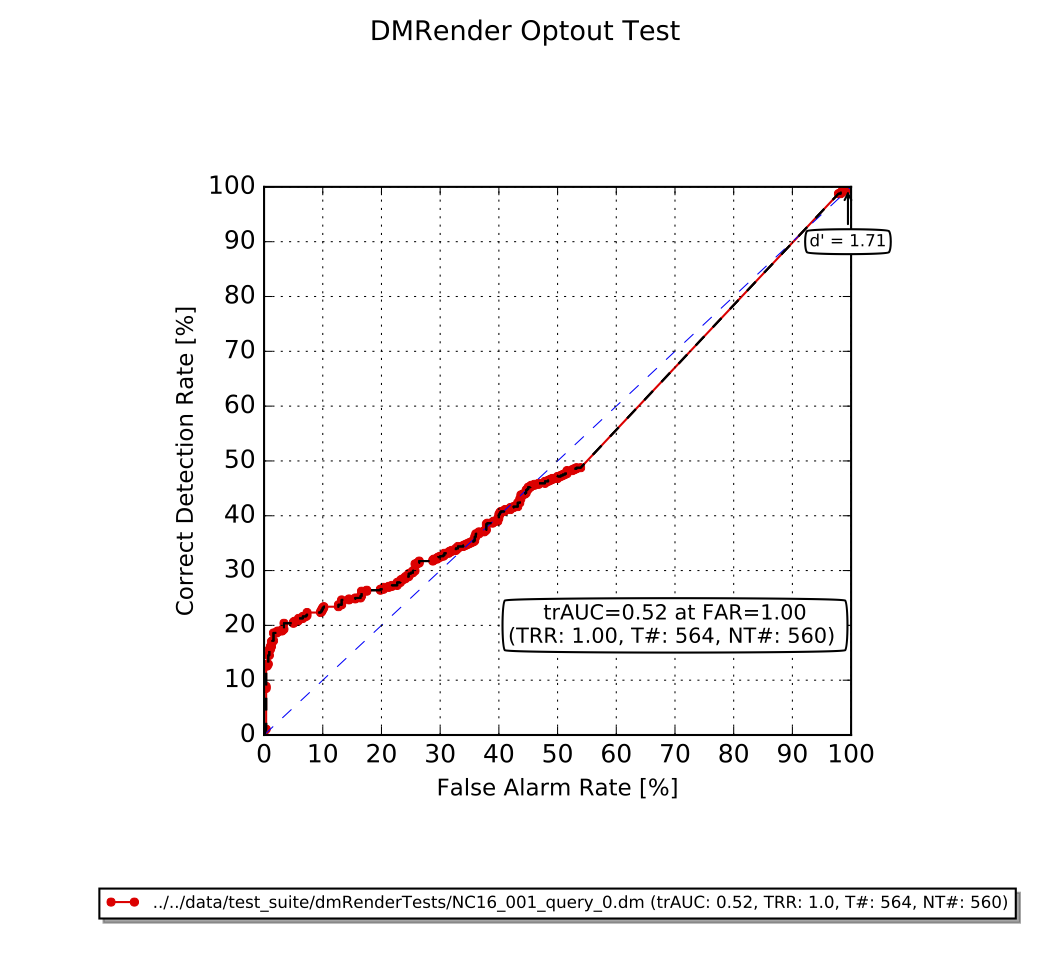
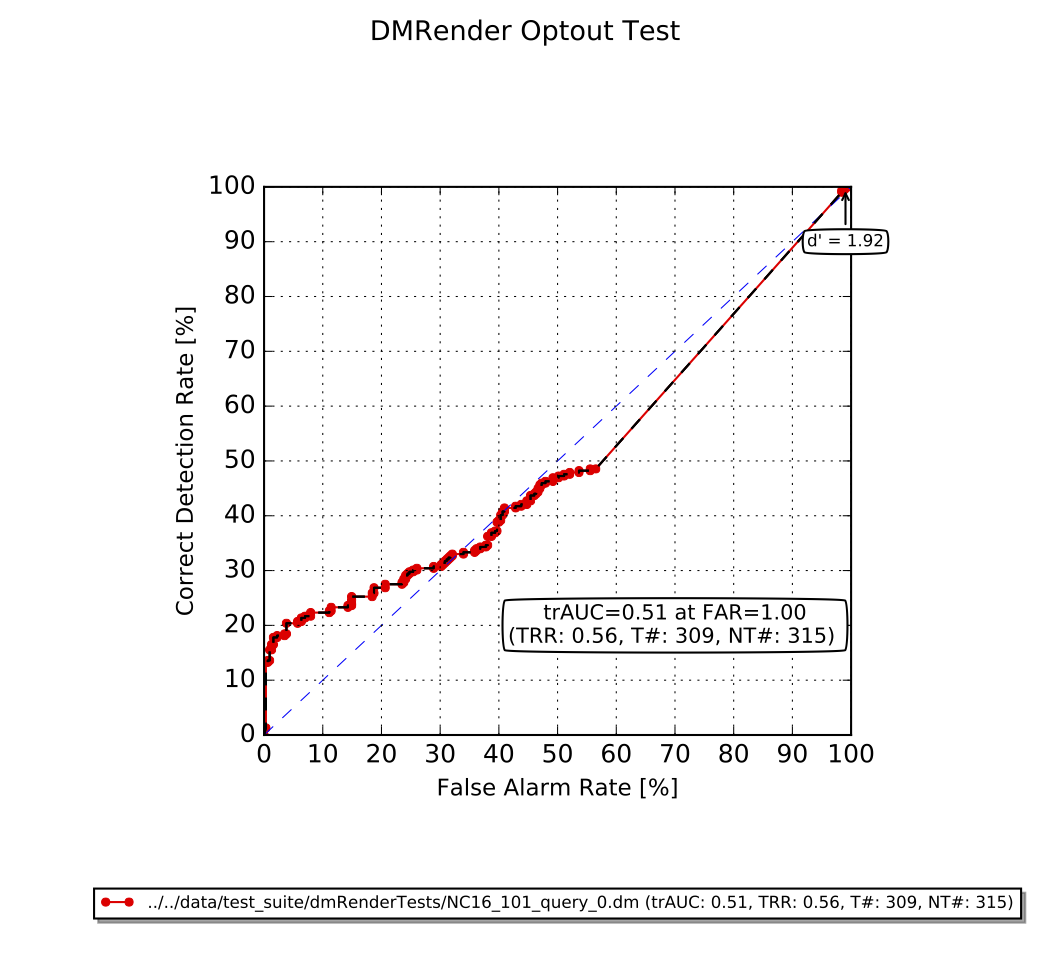
detect optout using sys_response

diff --git a/tools/DetectionScorer/DMRenderReadMe.html b/tools/DetectionScorer/DMRenderReadMe.html
@@ -11976,28 +11976,6 @@ Plot output: NIST_001_f_roc_0.pdf, NIST_001_f_roc_1.pdf, ...
 </div>
 <div class="inner_cell">
 <div class="text_cell_render border-box-sizing rendered_html">
-<h3 id="OptOut-Options:">OptOut Options:<a class="anchor-link" href="#OptOut-Options:">&#182;</a></h3>
-</div>
-</div>
-</div>
-<div class="cell border-box-sizing text_cell rendered">
-<div class="prompt input_prompt">
-</div>
-<div class="inner_cell">
-<div class="text_cell_render border-box-sizing rendered_html">
-<p>--optOut</p>
-<ul>
-<li>Evaluate algorithm performance on trials where IsOptOut values are 'N'.</li>
-</ul>
-
-</div>
-</div>
-</div>
-<div class="cell border-box-sizing text_cell rendered">
-<div class="prompt input_prompt">
-</div>
-<div class="inner_cell">
-<div class="text_cell_render border-box-sizing rendered_html">
 <h2 id="Command-line-Usage">Command-line Usage<a class="anchor-link" href="#Command-line-Usage">&#182;</a></h2>
 </div>
 </div>
@@ -12056,9 +12034,9 @@ python DMRender.py -i ../../data/test_suite/dmRenderTests/dm_list_without_colon.
 <div class="inner_cell">
 <div class="text_cell_render border-box-sizing rendered_html">
 <ul>
-<li>OptOut case
+<li>OptOut case dm file
 <code>
-python DMRender.py -i ../../data/test_suite/dmRenderTests/NC16_001_query_0.dm --outRoot ./testcases/dump_test4 --plotTitle "DMRender Optout Test" --display --optOut
+python DMRender.py -i ../../data/test_suite/dmRenderTests/NC16_101_query_0.dm --outRoot ./testcases/dump_test4 --plotTitle "DMRender Optout Test" --display
 </code>
 <img src="./notebookImgs/dump_test4_ROC_all.png" alt="Default ROC curve" width="500" height="400" align="left"></li>
 </ul>
@@ -12074,7 +12052,7 @@ python DMRender.py -i ../../data/test_suite/dmRenderTests/NC16_001_query_0.dm --
 <ul>
 <li>Displaying the legend without trial numbers
 <code>
-python DMRender.py -i ../../data/test_suite/dmRenderTests/NC16_001_query_0.dm --outRoot ./testcases/dump_test5 --plotTitle "DMRender No Trial Number Test" --display --optOut --noNum
+python DMRender.py -i ../../data/test_suite/dmRenderTests/NC16_001_query_0.dm --outRoot ./testcases/dump_test5 --plotTitle "DMRender No Trial Number Test" --display --noNum
 </code>
 <img src="./notebookImgs/dump_test5_ROC_all.png" alt="Default ROC curve" width="500" height="400" align="left"></li>
 </ul>

diff --git a/tools/DetectionScorer/DMRender.py b/tools/DetectionScorer/DMRender.py
@@ -74,9 +74,6 @@ if __name__ == '__main__':
         parser.add_argument('--noNum', action='store_true',
                             help="Do not print the number of target trials and non-target trials on the legend of the plot")
 
-        parser.add_argument('--optOut', action='store_true',
-                            help="Evaluate algorithm performance on trials where the IsOptOut value is 'N' only.")
-
         parser.add_argument('-v', '--verbose', action='store_true',
                             help="Increase output verbosity")
 
@@ -222,7 +219,9 @@ if __name__ == '__main__':
                     met_str = " (EER: " + str(round(dm_list.eer,2))
 
                 trr_str = ""
-                if args.optOut:
+                optout = False
+                if dm_list.sys_res == 'tr':
+                    optout = True
                     trr_str = ", TRR: " + str(dm_list.trr)
                     if plot_opts['plot_type'] == 'ROC':
                         #plot_opts['title'] = "trROC"
@@ -241,7 +240,7 @@ if __name__ == '__main__':
             # Creation of the Renderer
             myRender = p.Render(configRender)
             # Plotting
-            myfigure = myRender.plot_curve(args.display, multi_fig=args.multiFigs, isOptOut = args.optOut, isNoNumber = args.noNum)
+            myfigure = myRender.plot_curve(args.display, multi_fig=args.multiFigs, isOptOut = optout, isNoNumber = args.noNum)
 
             # save multiple figures if multi_fig == True
             if isinstance(myfigure,list):
